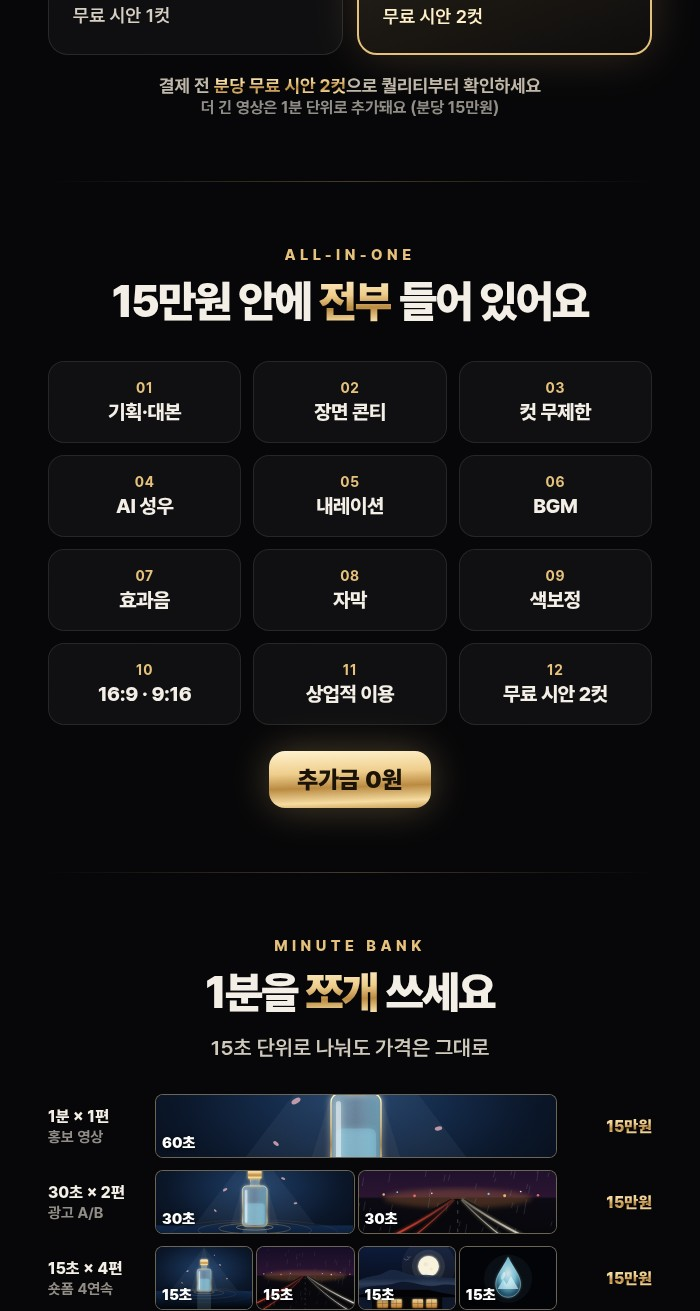
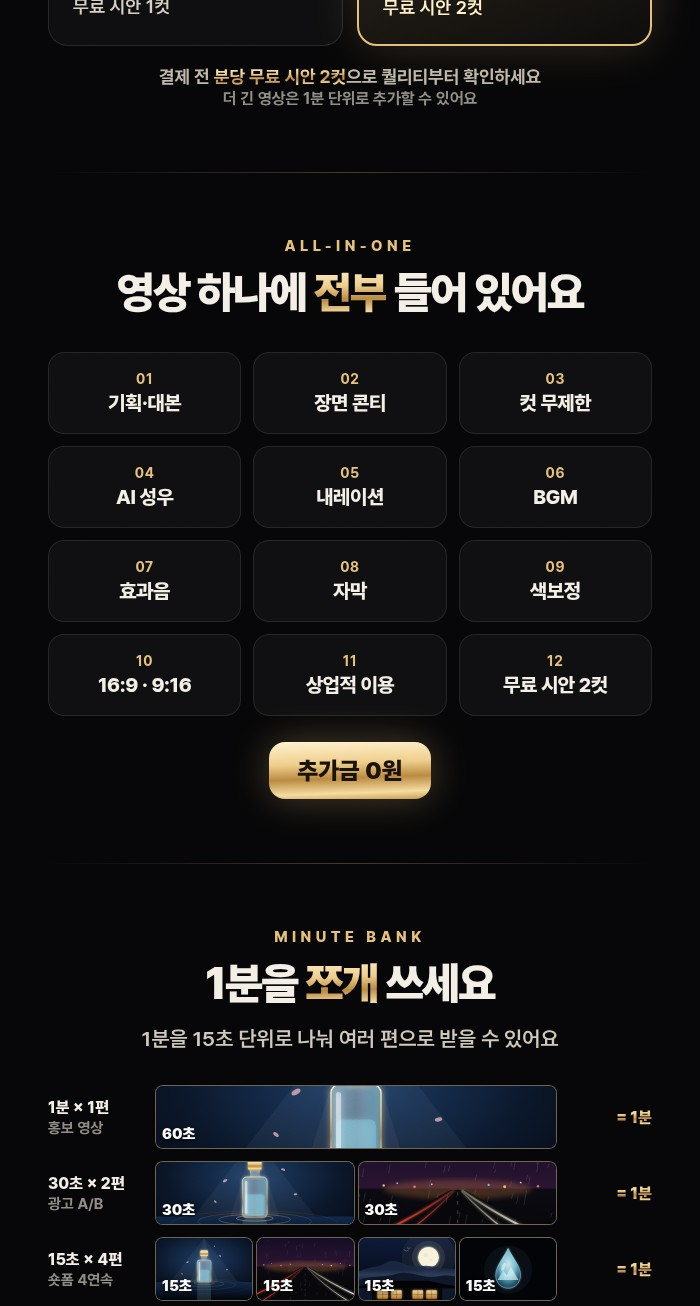
Remove price figures from the one-page detail image
Claude-Session: https://claude.ai/code/session_01HW1qVnBzebQH8eHGAx3Xdw

diff --git a/kmong-studio/assets/src/index.html b/kmong-studio/assets/src/index.html
@@ -461,27 +461,26 @@ table.opt small { color: var(--mute); font-weight: 500; margin-left: 6px; font-s
     <div class="copy">
       <div class="h1">촬영 없이, 방송급 AI 광고를</div>
       <div class="tt serif gold glow">뚝딱.</div>
-      <div class="pr"><span class="m">1분</span><span class="w gold">15<small>만원</small></span></div>
-      <div class="sc"><span class="gold">숏컷</span> 15초 미만 <span class="gold">7.5만원</span>부터</div>
+      <div class="sc" style="font-size:24px;margin-top:20px">기획부터 <span class="gold">성우·BGM·자막</span>까지, 한 번에.</div>
       <div class="chips"><span><b>✓</b>무료 시안 2컷</span><span><b>✓</b>컷수 무제한</span><span><b>✓</b>성우·BGM 포함</span></div>
     </div>
   </div>
 
   <div class="blk">
-    <div class="kick">PRICE</div>
-    <div class="ttl">가격은 <span class="gold">이게 전부</span>입니다</div>
-    <div class="sub">영상 길이(분) × 15만원 = 최종 금액</div>
+    <div class="kick">FORMAT</div>
+    <div class="ttl">필요한 길이로 <span class="gold">골라</span> 받으세요</div>
+    <div class="sub">컷 수 제한 없이, 추가금 없이</div>
     <div class="grid2">
-      <div class="pc"><div class="n">숏컷<small>15초 미만</small></div><div class="p gold">7.5<small>만원</small></div><div class="d">릴스·쇼츠·범퍼 광고 1편<br>2일 납품 · 수정 1회<br>무료 시안 1컷</div></div>
-      <div class="pc best"><span class="bd">BEST</span><div class="n">1분 컷</div><div class="p gold">15<small>만원</small></div><div class="d"><em>30초 × 2편</em> 또는 <em>15초 × 4편</em><br>3일 납품 · 수정 2회<br><em>무료 시안 2컷</em></div></div>
+      <div class="pc"><div class="n">숏컷</div><div class="p gold" style="font-size:44px">15초 미만</div><div class="d">릴스·쇼츠·범퍼 광고 1편<br>2일 납품 · 수정 1회<br>무료 시안 1컷</div></div>
+      <div class="pc best"><span class="bd">BEST</span><div class="n">1분 컷</div><div class="p gold" style="font-size:44px">1분</div><div class="d"><em>30초 × 2편</em> 또는 <em>15초 × 4편</em><br>3일 납품 · 수정 2회<br><em>무료 시안 2컷</em></div></div>
     </div>
-    <div class="note">결제 전 <span class="gold">분당 무료 시안 2컷</span>으로 퀄리티부터 확인하세요<br><span style="font-size:16px;color:var(--mute)">더 긴 영상은 1분 단위로 추가돼요 (분당 15만원)</span></div>
+    <div class="note">결제 전 <span class="gold">분당 무료 시안 2컷</span>으로 퀄리티부터 확인하세요<br><span style="font-size:16px;color:var(--mute)">더 긴 영상은 1분 단위로 추가할 수 있어요</span></div>
   </div>
   <div class="sep"></div>
 
   <div class="blk">
     <div class="kick">ALL-IN-ONE</div>
-    <div class="ttl">15만원 안에 <span class="gold">전부</span> 들어 있어요</div>
+    <div class="ttl">영상 하나에 <span class="gold">전부</span> 들어 있어요</div>
     <div class="inc">
       <div><i>01</i>기획·대본</div><div><i>02</i>장면 콘티</div><div><i>03</i>컷 무제한</div>
       <div><i>04</i>AI 성우</div><div><i>05</i>내레이션</div><div><i>06</i>BGM</div>
@@ -495,7 +494,7 @@ table.opt small { color: var(--mute); font-weight: 500; margin-left: 6px; font-s
   <div class="blk">
     <div class="kick">MINUTE BANK</div>
     <div class="ttl">1분을 <span class="gold">쪼개</span> 쓰세요</div>
-    <div class="sub">15초 단위로 나눠도 가격은 그대로</div>
+    <div class="sub">1분을 15초 단위로 나눠 여러 편으로 받을 수 있어요</div>
     <div class="bank" id="bank-one" style="margin-top:32px"></div>
   </div>
   <div class="sep"></div>
@@ -622,9 +621,9 @@ bank(document.getElementById("bank3"), [
 })();
 // ----- one-page detail art -----
 bank(document.getElementById("bank-one"), [
-  ["1분 × 1편", "홍보 영상", [[4, "60초"]], "15만원"],
-  ["30초 × 2편", "광고 A/B", [[2, "30초"], [2, "30초"]], "15만원"],
-  ["15초 × 4편", "숏폼 4연속", [[1, "15초"], [1, "15초"], [1, "15초"], [1, "15초"]], "15만원"],
+  ["1분 × 1편", "홍보 영상", [[4, "60초"]], "= 1분"],
+  ["30초 × 2편", "광고 A/B", [[2, "30초"], [2, "30초"]], "= 1분"],
+  ["15초 × 4편", "숏폼 4연속", [[1, "15초"], [1, "15초"], [1, "15초"], [1, "15초"]], "= 1분"],
 ], true);
 (() => {
   const b = document.getElementById("one-hero");

diff --git a/kmong-studio/assets/README.md b/kmong-studio/assets/README.md
@@ -37,7 +37,7 @@
 
 `detail-full.jpg`는 d01~d11을 한 장으로 이은 합본입니다 (크몽 본문용, 카톡 전송용 아님).
 
-**`detail-one.jpg` / `detail-one.png` — 한 장 압축 상세페이지 (추천).** 히어로 → 가격 4종 → 포함 12가지 → 분 쪼개기 → 진행 4단계 → 유의사항 → CTA. 모바일에서 읽히도록 본문 글자를 20px 이상으로 키운 버전입니다. 크몽 본문에 이 한 장만 넣어도 됩니다.
+**`detail-one.jpg` / `detail-one.png` — 한 장 압축 상세페이지 (추천, 가격 숫자 없음 — 가격은 크몽 패키지 칸에만).** 히어로 → 길이 선택(숏컷·1분) → 포함 12가지 → 분 쪼개기 → 진행 4단계 → 유의사항 → CTA. 모바일에서 읽히도록 본문 글자를 20px 이상으로 키운 버전입니다. 크몽 본문에 이 한 장만 넣어도 됩니다.
 
 ## ⚠ 포트폴리오 영상이 완성되면 교체할 것
 `d06`(시그니처 필름)과 썸네일 안의 장면 프레임은 **일러스트로 그린 시안**입니다.
